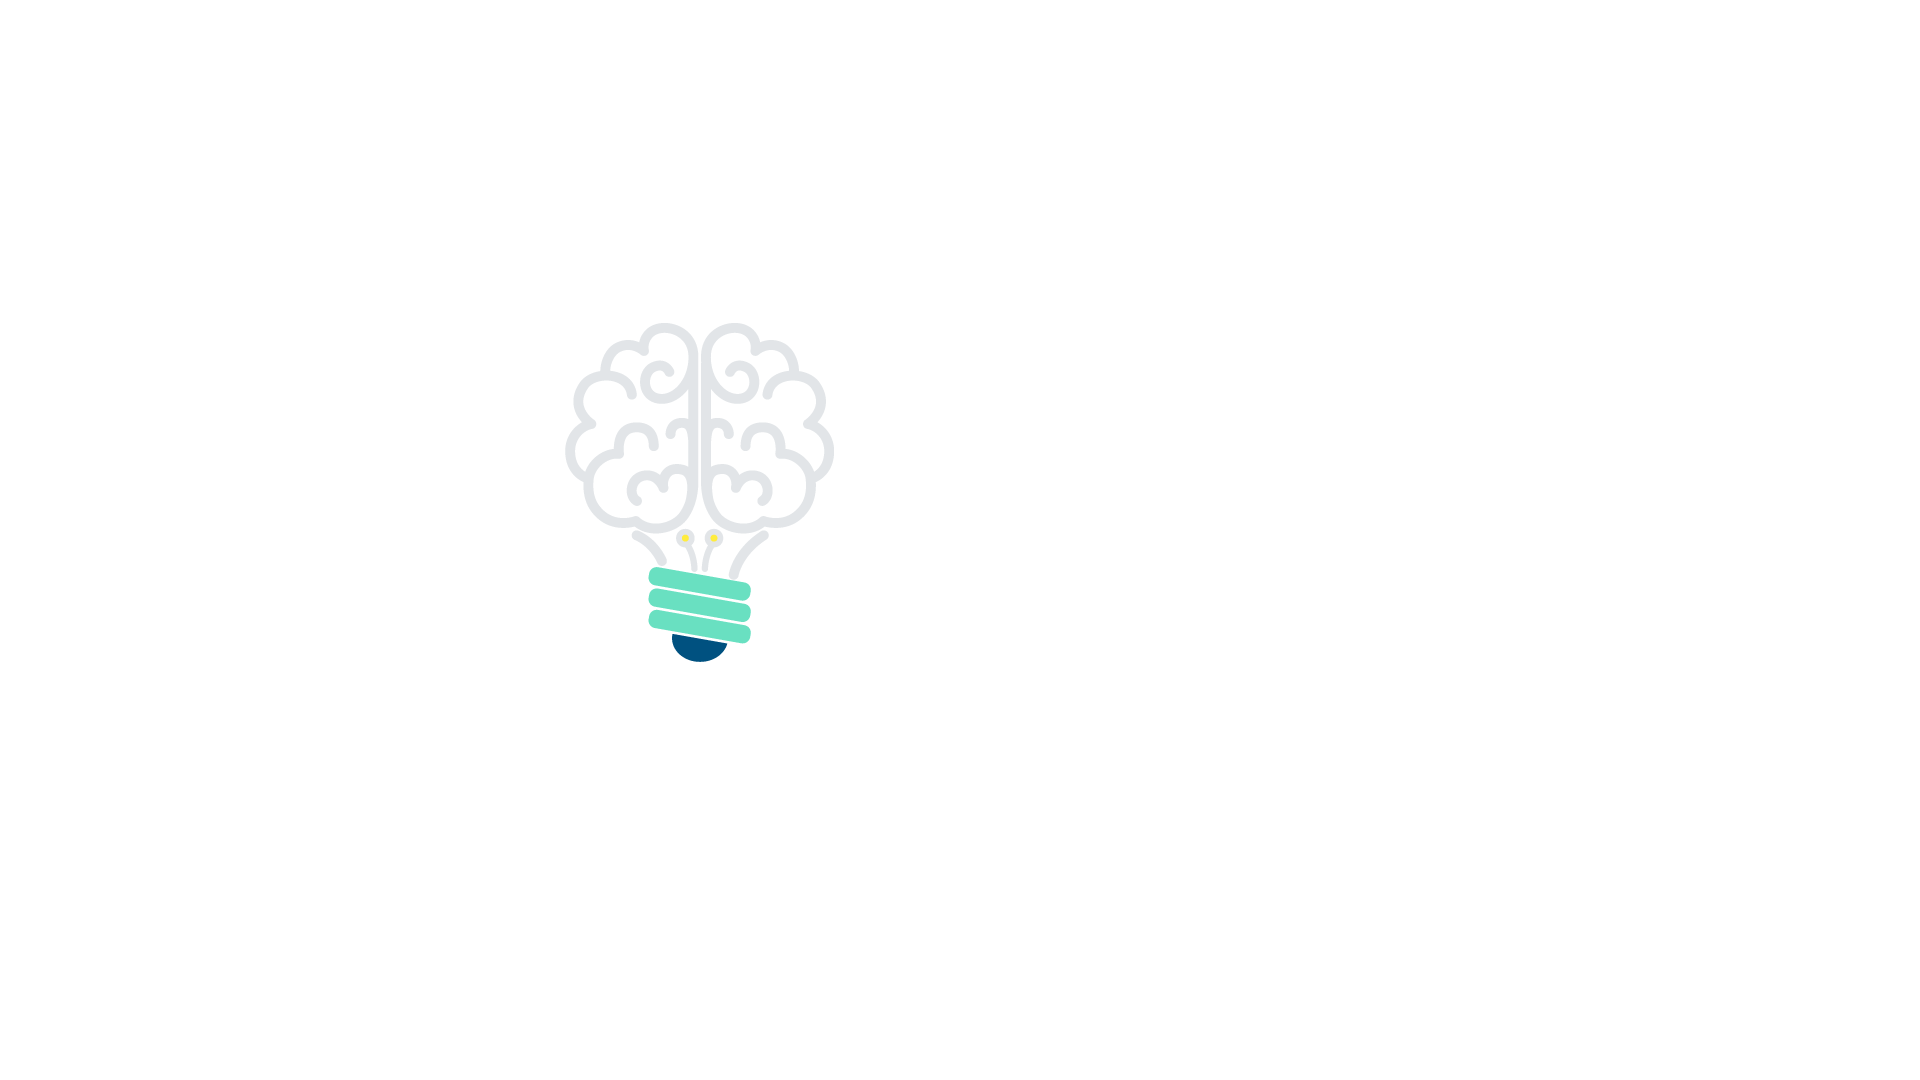
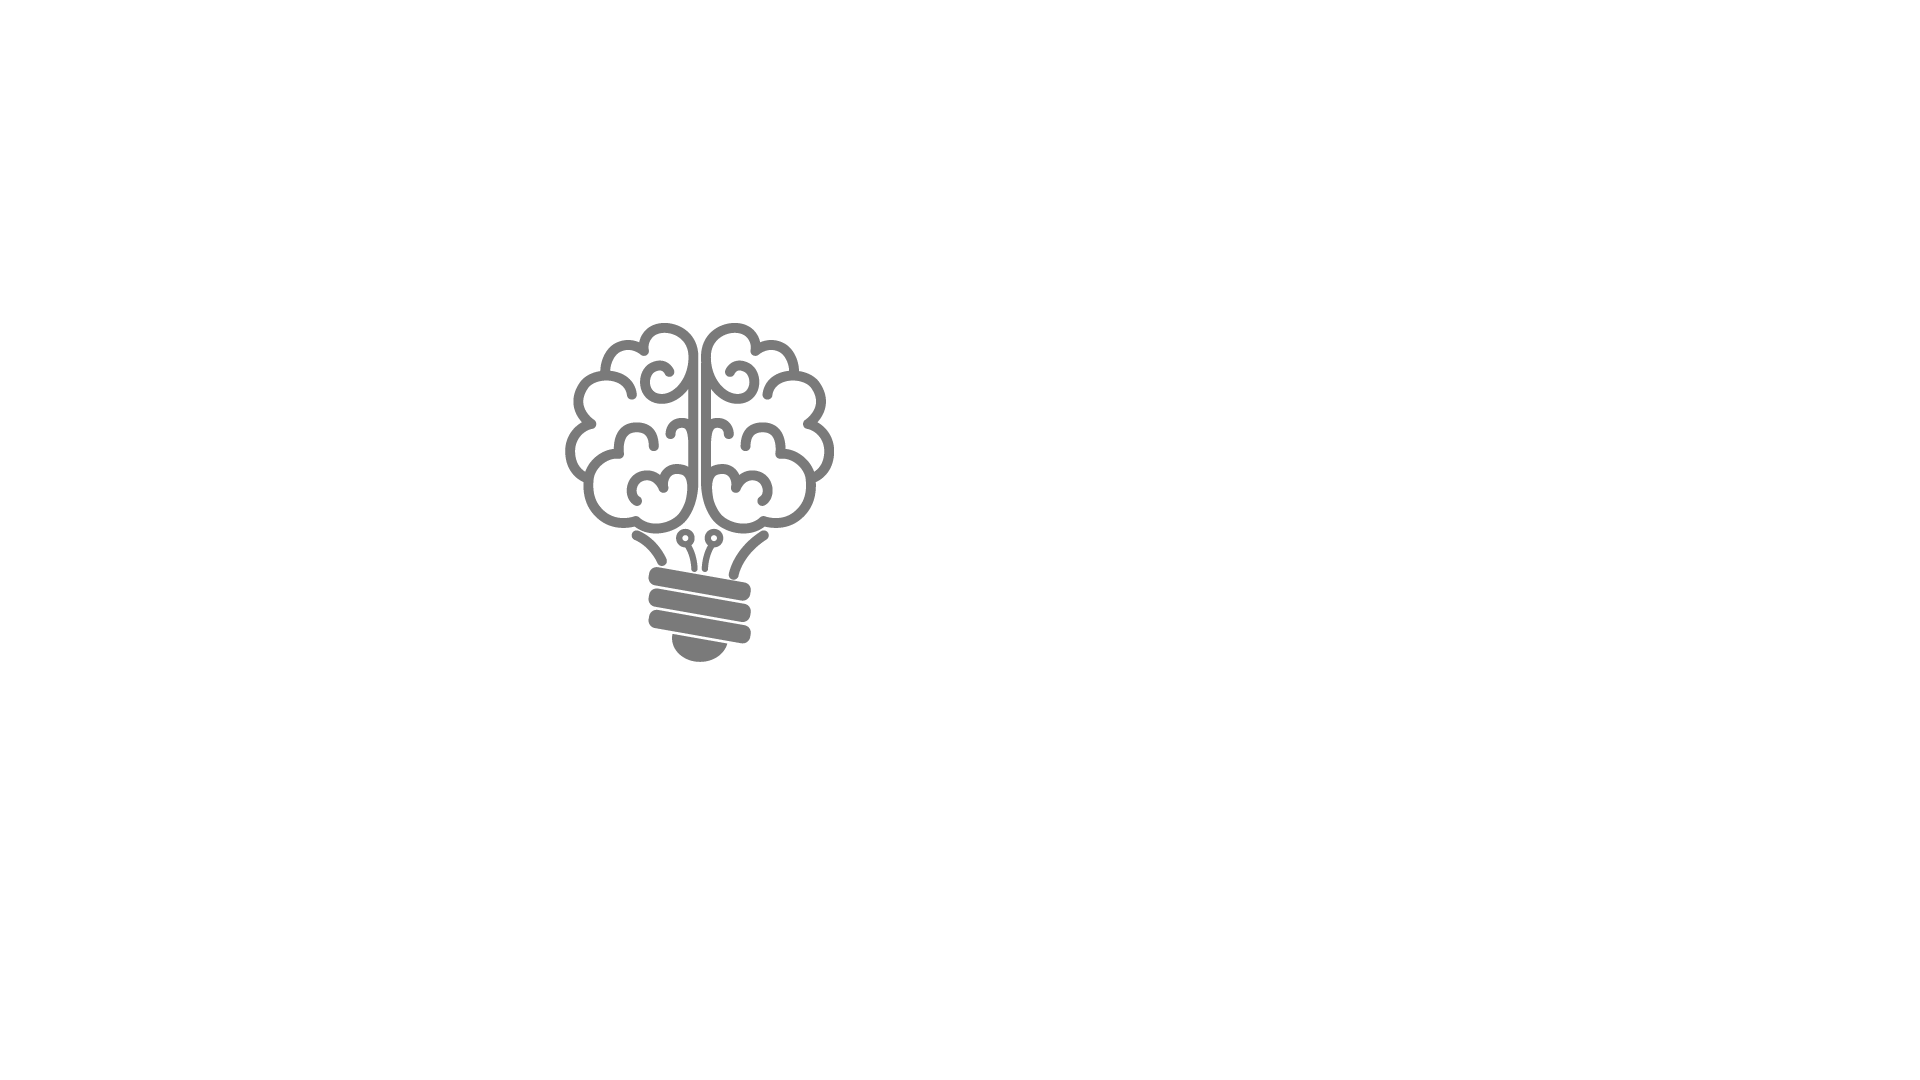
style

Changed region(s): [[0.2812, 0.3056, 0.4375, 0.6111]]

diff --git a/public/css/style.css b/public/css/style.css
@@ -350,7 +350,10 @@ img.modalimg {
   width: 100%;
   color: #69E0C1;
 }
-
+.segmented-bulma{
+  width: 100%;
+  color: #01D1B2;
+}
 a.quizbox {
   color: #fff;
 }
@@ -363,17 +366,17 @@ a.quizbox:hover {
   border-radius: 100px;
 }
 .btn-unsave {
-  color: #212121;
-  border: 2px solid #69E0C1;
+  color: #363636;
+  border: 2px solid #01D1B2;
 }
 .btn-unsave:hover {
   color: #fff;
-  background: #69E0C1;
+  background: #01D1B2;
 }
 .btn-save {
   color: #fff;
-  background: #69E0C1;
-  border-color: #69E0C1;
+  background: #01D1B2;
+  border-color: #01D1B2;
 }
 .btn-save:hover {
   color: #fff;
@@ -384,26 +387,18 @@ a.quizbox:hover {
   position: absolute;
   width: 100%;
   height: 100%;
-  background: #2d3e50;
-   /*fallback for old browsers */
-  background: -webkit-linear-gradient(-135deg,  #004e92  0%,#000428 100%);
-  /* Chrome 10-25, Safari 5.1-6 */
-  background: linear-gradient(-135deg,  #004e92  0%,#000428 100%);
-  /* W3C, IE 10+/ Edge, Firefox 16+, Chrome 26+, Opera 12+, Safari 7+ */
-
-  background-position: center center;
-
+  background: #FFFFFF;
 }
 @media (min-width: 990px) {
   .indexLogin {
     position: absolute;
     width: 100%;
     height: 100%;
-    background: #2d3e50;
+    background: #ffffff;
      /*fallback for old browsers */
-    background: url('/img/lamp-bg.png'), -webkit-linear-gradient(-135deg,  #004e92  0%,#000428 100%);
+    background: url('/img/lamp-bg.png');
     /* Chrome 10-25, Safari 5.1-6 */
-    background: url('/img/lamp-bg.png'), linear-gradient(-135deg,  #004e92  0%,#000428 100%);
+    background: url('/img/lamp-bg.png');
     /* W3C, IE 10+/ Edge, Firefox 16+, Chrome 26+, Opera 12+, Safari 7+ */
 
     background-position: center center;
@@ -414,15 +409,16 @@ a.quizbox:hover {
 .btn-gibson {
   width: 200px;
   height: 50px;
-  color: #212121;
-  background: transparent;
-  border: 3px solid #69E0C1;
+  color: #FFFFFF;
+  background: #01D1B2;
+  /*border: 3px solid #01D1B2;*/
   transition: 0.5s;
   border-radius: 100px;
   margin: 10px;
 }
 
 .btn-gibson:hover {
+  color: #FFFFFF;
   letter-spacing: 10px;
 }
 
@@ -435,15 +431,15 @@ a.quizbox:hover {
   height: 50px;
   border-radius: 100px;
   background: rgba(255, 255, 255, 0.1);
-  border: 2px solid rgba(255, 255, 255, 0);
+  border: 2px solid rgba(122, 122, 122, 0.5);
   overflow: hidden;
   transition: all 0.5s ease-in-out;
-  color: #fff;
+  color: #7a7a7a;
 }
 
 .text:focus {
   outline: 0;
-  border: 2px solid rgba(255, 255, 255, 0.5);
+  border: 2px solid rgba(105, 224, 193, 0.5);
   border-radius: 20px;
   background: rgba(0, 0, 0, 0);
 }
@@ -465,20 +461,7 @@ img.showQuiz {
   max-height: 300px;
 }
 
-.gradeintBG {
-  position: absolute;
-  width: 100%;
-  min-height: 100%;
-  background: #2d3e50;
-   /*fallback for old browsers */
-  background: -webkit-linear-gradient(-135deg,  #004e92  0%,#000428 100%);
-  /* Chrome 10-25, Safari 5.1-6 */
-  background: linear-gradient(-135deg,  #004e92  0%,#000428 100%);
-  /* W3C, IE 10+/ Edge, Firefox 16+, Chrome 26+, Opera 12+, Safari 7+ */
 
-  background-position: center center;
-
-}
 
 
 .saveNext {
@@ -563,7 +546,7 @@ img.showQuiz {
   width: 100%;
   opacity: 0;
   transition: .5s ease;
-  background-color: #69E0C1;
+  background-color: #01D1B2;
 }
 
 .textOverlay {

diff --git a/public/css/new-age.css b/public/css/new-age.css
@@ -30,6 +30,7 @@ html,
 body {
   height: 100%;
   width: 100%;
+  color: #7a7a7a;
 }
 body {
   font-family: 'Muli', 'Helvetica', 'RSU', 'Arial', 'sans-serif';
@@ -71,9 +72,8 @@ p {
   margin-bottom: 20px;
 }
 .navbar-default {
-  /*background-color: white;*/
-  background: #2D3E50;
-  /*border-color: rgba(34, 34, 34, 0.05);*/
+  background-color: white;
+  border-color: rgba(34, 34, 34, 0.05);
   -webkit-transition: all 0.35s;
   -moz-transition: all 0.35s;
   transition: all 0.35s;
@@ -85,15 +85,15 @@ p {
   font-family: 'Catamaran', 'Helvetica', 'Arial', 'sans-serif';
   font-weight: 200;
   letter-spacing: 1px;
-  color: #fff;
+  color: #7a7a7a;
 }
 .navbar-default .navbar-header .navbar-brand:hover,
 .navbar-default .navbar-header .navbar-brand:focus {
-  color: #fcbd20;
+  color: #363636;
 }
 .navbar-default .navbar-header .navbar-toggle {
   font-size: 12px;
-  color: #fff;
+  color: #7a7a7a;
   padding: 8px 10px;
 }
 .navbar-default .nav > li > a {
@@ -104,41 +104,40 @@ p {
 }
 .navbar-default .nav > li > a,
 .navbar-default .nav > li > a:focus {
-  color: #fff;
+  color: #7a7a7a;
 }
 .navbar-default .nav > li > a:hover,
 .navbar-default .nav > li > a:focus:hover {
-  color: #222;
+  color: #363636;
 }
 .navbar-default .nav > li.active > a,
 .navbar-default .nav > li.active > a:focus {
-  color: #222 !important;
+  color: #7a7a7a !important;
   background-color: transparent;
 }
 .navbar-default .nav > li.active > a:hover,
 .navbar-default .nav > li.active > a:focus:hover {
-  background-color: #fff;
+  background-color: #7a7a7a;
 }
 @media (min-width: 768px) {
   .navbar-default {
-    /*background-color: #2C3E50;
-    border-color: #2C3E50;*/
-    background: #2D3E50;
+    background-color: #ffffff;
+    border-color: rgba(34, 34, 34, 0.05);
   }
   .navbar-default .navbar-header .navbar-brand {
-    color: rgba(255, 255, 255, 1);
+    color: #7a7a7a;
   }
   .navbar-default .navbar-header .navbar-brand:hover,
   .navbar-default .navbar-header .navbar-brand:focus {
-    color: rgba(255, 255, 255, 0.7);
+    color: #363636;
   }
   .navbar-default .nav > li > a,
   .navbar-default .nav > li > a:focus {
-    color: rgba(255, 255, 255, 0.7);
+    color: #363636;
   }
   .navbar-default .nav > li > a:hover,
   .navbar-default .nav > li > a:focus:hover {
-    color: white;
+    color: #363636;
   }
   .navbar-default.affix {
     /*background-color: white;

diff --git a/public/css/bootstrap.css b/public/css/bootstrap.css
@@ -4534,7 +4534,7 @@ select[multiple].input-group-sm > .input-group-btn > .btn {
 }
 .navbar-default .navbar-toggle:hover,
 .navbar-default .navbar-toggle:focus {
-  background-color: #ddd;
+  background-color: #fff;
 }
 .navbar-default .navbar-toggle .icon-bar {
   background-color: #888;

diff --git a/app/Http/Controllers/Student/QuizController.php b/app/Http/Controllers/Student/QuizController.php
@@ -22,6 +22,7 @@ class QuizController extends Controller
      */
     public function index($id)
     {
+        
         $quizs = Quiz::where('course_id', $id)->get();
 
         $data['quizs'] = $quizs;
@@ -142,17 +143,19 @@ class QuizController extends Controller
       $response = Response::where([['user_id',$user_id],['quiz_id',$quiz_id],['question_id',$id]])->first();
 
       if(empty($response)){
-        $reponse = new Response();
-        $reponse->user_id = $user_id;
-        $reponse->quiz_id = $quiz_id;
-        $reponse->question_id = $id;
-        $reponse->answer = $request['answer'];
+        $response = new Response();
+        $response->user_id = $user_id;
+        $response->quiz_id = $quiz_id;
+        $response->question_id = $id;
+        $response->answer = $request['answer'];
 
-        $reponse->save();
+      }else{
+        $response->answer = $request['answer'];
+
       }
-
+      $response->save();
       return \Response::json(view('layouts.flashJS',
-      ['flash_notice' =>'System: ดำเนินการบันทึกข้อมูล สำเร็จ'.$request['questionType'].' '.$request['page'].' '.$request['answer'],
+      ['flash_notice' =>'System: ดำเนินการบันทึกข้อมูล สำเร็จ'.$request['questionType'].' '.$request['page'].' '.$request['answer'] ,
       'flash_type' => 'success'])->render());
 
     }

diff --git a/resources/views/layouts/app.blade.php b/resources/views/layouts/app.blade.php
@@ -44,7 +44,7 @@
                 <button type="button" class="navbar-toggle collapsed" data-toggle="collapse" data-target="#bs-example-navbar-collapse-1">
                     <span class="sr-only">Toggle navigation</span> Menu <i class="fa fa-bars"></i>
                 </button>
-                <a class="navbar-brand page-scroll" href="{{ url('/home' )}}">Learning System</a>
+                <a class="navbar-brand page-scroll" href="{{ url('/home' )}}"><i class="fa fa-book" aria-hidden="true"></i> Learning System</a>
             </div>
 
             <!-- Collect the nav links, forms, and other content for toggling -->

diff --git a/resources/views/students/list/trueChoice.blade.php b/resources/views/students/list/trueChoice.blade.php
@@ -18,7 +18,7 @@
   </div>
 
   <div class="col-md-12 answerBox">
-    <div class="segmented-control segmented-deepblue" id="sengment-1" style="width: 100%;">
+    <div class="segmented-control segmented-bulma" id="sengment-1" style="width: 100%;">
       <input type="radio" name="answer" id="answer-1" value="true"
       @for($i = 1; $i <= $paginates->lastPage(); $i++)
         @foreach($resArray as $rkey => $resValue)
@@ -70,6 +70,7 @@ $("#saveQuiz").on("click", function(){
       dataType: 'json',
     }).done(function(data) {
       $('#saveSucces').html(data);
+
     }).fail(function() {
       alert('error');
     });

diff --git a/resources/views/auth/login.blade.php b/resources/views/auth/login.blade.php
@@ -1,14 +1,13 @@
 @extends('layouts.app')
 
 @section('content')
-<link rel="stylesheet" href="{{ asset('css/loginStyle.css')}}">
 <section class="features indexLogin">
 <div class="container">
 
 
   <div class="col-md-5 col-md-offset-5 text-right" style="margin-top: 50px;">
-      <h2 style="color: #fff;">Learning System</h2>
-      <p style="color: #fff">Faculty of Information Technology @KMTIL</p>
+      <h2 style="color: #363636;">Learning System</h2>
+      <p style="color: #7a7a7a">Faculty of Information Technology @KMTIL</p>
       @include('auth.loginForm')
   </div>
 

diff --git a/resources/views/admins/list/manageUserPaginate.blade.php b/resources/views/admins/list/manageUserPaginate.blade.php
@@ -20,7 +20,7 @@
           dataType: 'json',
         }).done(function(data) {
           $('#{{ $name }}UserTable').html(data);
-          location.hash = '{{ $name }}User?page='+page;
+          // location.hash = '{{ $name }}User?page='+page;
         }).fail(function() {
           alert('Posts could not be loaded.');
         });

diff --git a/resources/views/admins/users/courseUser.blade.php b/resources/views/admins/users/courseUser.blade.php
@@ -58,7 +58,7 @@
             dataType: 'json',
           }).done(function(data) {
             $('#courseMember').html(data);
-            location.hash = page;
+            // location.hash = page;
           }).fail(function() {
             alert('Posts could not be loaded.');
           });
